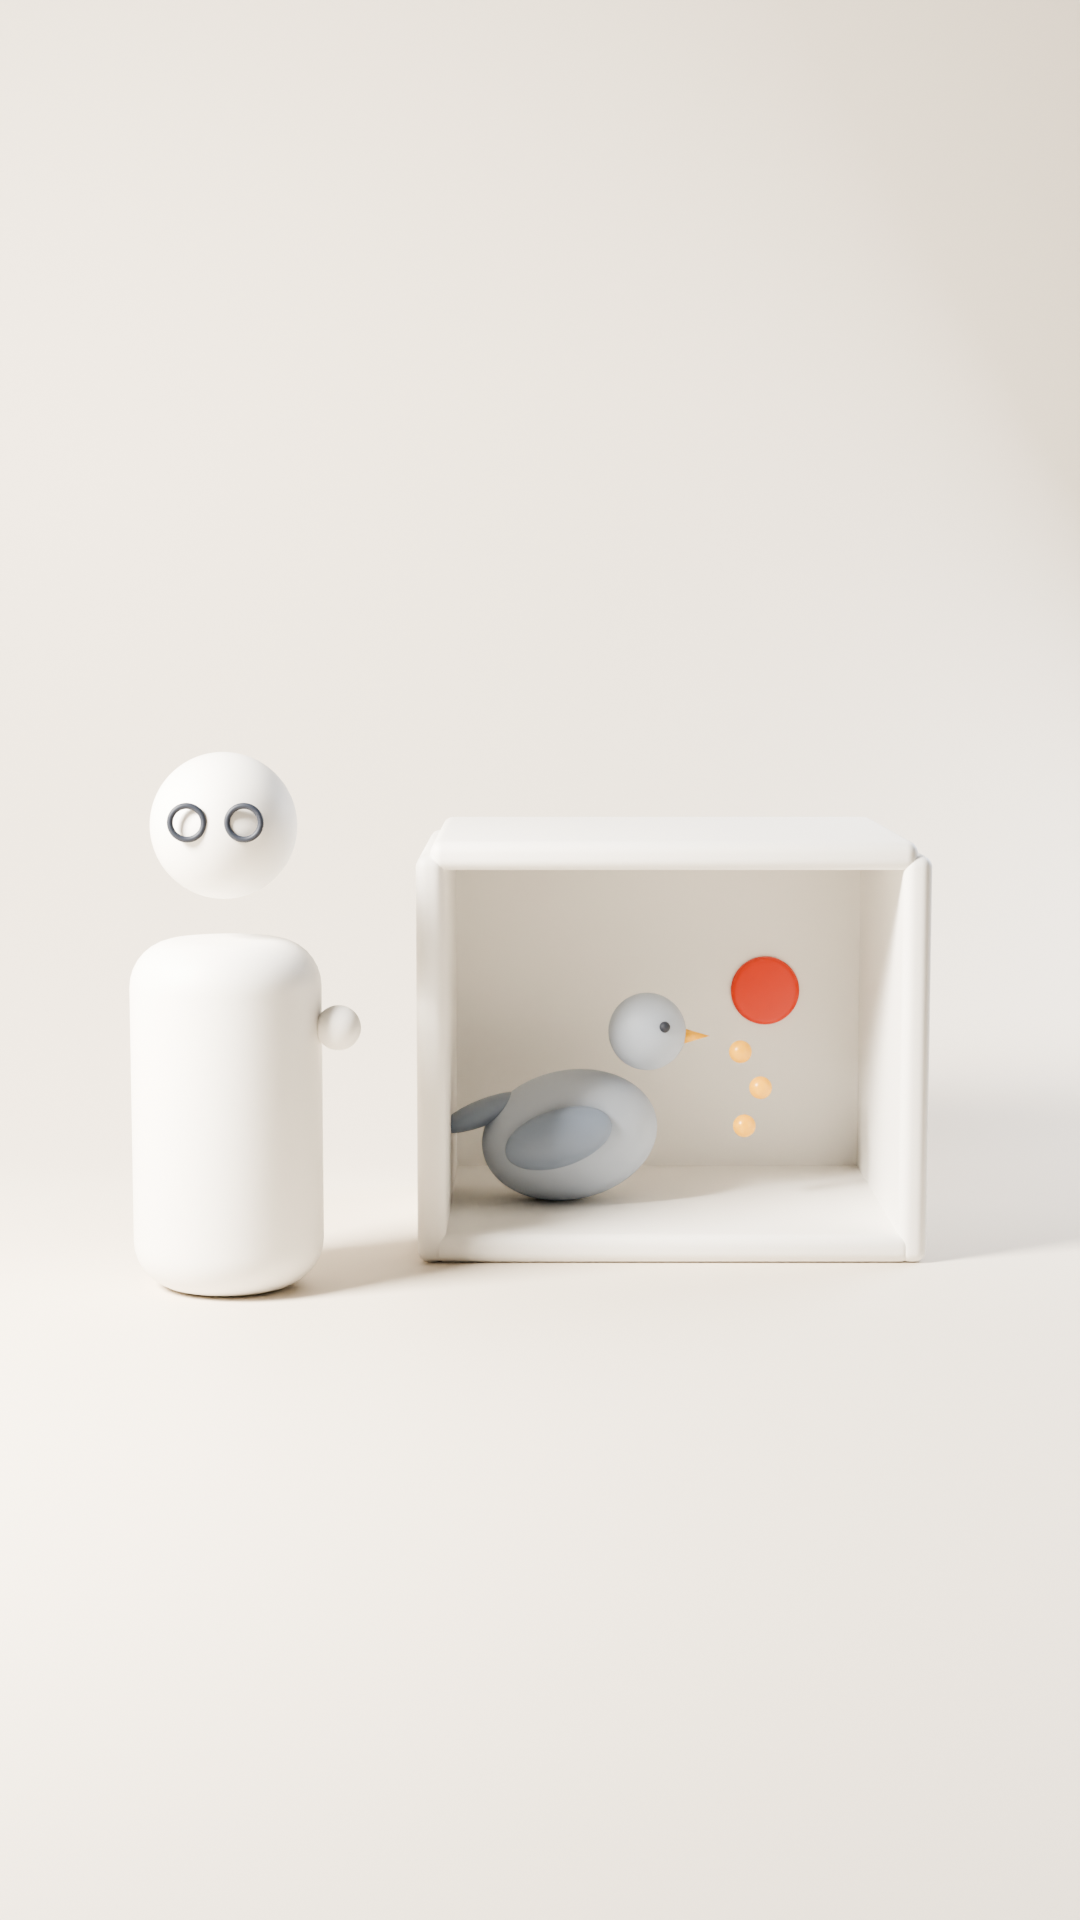
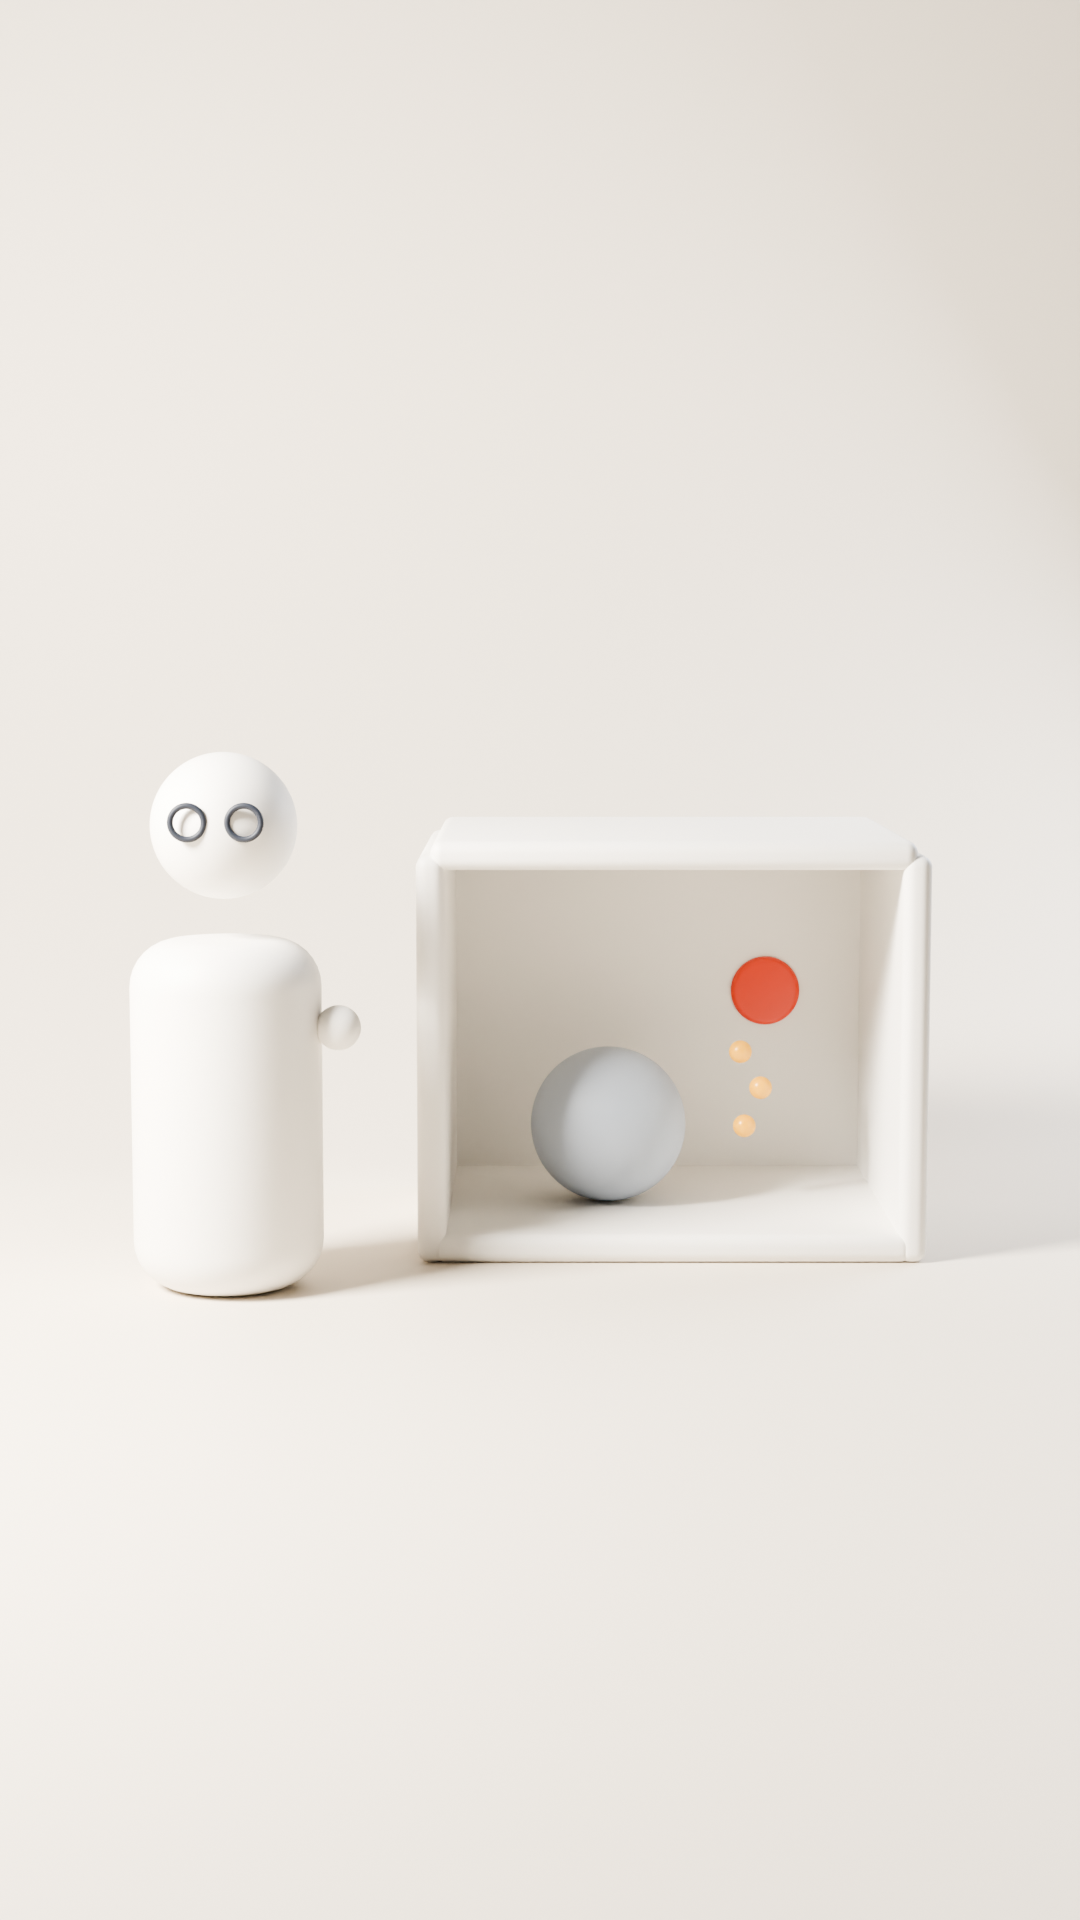
Video 01: pigeon as plain sphere

diff --git a/new-channel/engine/blender/frame.py b/new-channel/engine/blender/frame.py
@@ -49,16 +49,8 @@ for size,loc in [((w,d,t),(0,0,t/2)),((w,d,t),(0,0,h)),((t,d,h),(-w/2,0,h/2)),((
     o=cube(size,(loc[0]+bx,loc[1]+by,loc[2]),M['white'],0.05)
 cyl(0.16,0.06,(bx+0.5,by+d/2-0.06,0.95),M['red'],0.025).rotation_euler=(math.pi/2,0,0)
 bpy.context.object.location=(bx+0.5,by+d/2-0.06,0.95)
-# pigeon: side profile facing the button (+x): egg body, wing, tail, floating head
-M['wing']=mat('wing','#7E8A9C',0.5)
-px,py,pz=bx-0.42,by-0.05,0.41
-o=sphere(0.3,(px,py,pz),M['grey'],(1.3,0.9,0.95)); o.rotation_euler=(0,math.radians(-12),0)
-o=sphere(0.3,(px-0.05,py-0.25,pz+0.03),M['wing'],(0.8,0.2,0.42)); o.rotation_euler=(0,math.radians(-18),0)
-o=sphere(0.2,(px-0.38,py,pz+0.1),M['wing'],(1.0,0.55,0.28)); o.rotation_euler=(0,math.radians(-22),0)
-hx,hz=px+0.34,pz+0.46
-sphere(0.17,(hx,py,hz),M['grey'])
-bpy.ops.mesh.primitive_cone_add(radius1=0.045,depth=0.15,location=(hx+0.2,py,hz-0.02),vertices=48); o=obj_done(bpy.context.object,M['gold']); o.rotation_euler=(0,math.radians(90),0)
-sphere(0.024,(hx+0.07,py-0.15,hz+0.04),M['ink'])
+# pigeon: just a sphere
+sphere(0.34,(bx-0.25,by-0.05,0.12+0.34),M['grey'])
 # pellets
 for i,(x,z) in enumerate([(0.35,0.45),(0.42,0.62),(0.33,0.78)]): sphere(0.05,(bx+x,by-0.05,z),M['gold'])
 

diff --git a/new-channel/CLAUDE.md b/new-channel/CLAUDE.md
@@ -41,3 +41,4 @@ Anything the owner must see goes in chat, not only here. Read this file first in
 - Storyboard v2 ALSO rejected: 'too simple or too complex, looks bad'. Conclusion: hand-coded procedural 3D from me hits a quality ceiling. Need references / pro assets / different medium before more renders.
 - Storyboard v3: Blender Cycles via pip 'bpy' 5.0.1 (works, CPU, ~3-5 min/frame @64spp). engine/blender/frame.py. Warm off-white set #E4DACB, all-white objects, grey pigeon, red button, gold pellets, big soft area key, AgX. Product-photo minimal.
 - v3 approved as direction ('right direction'). Pigeon v2: side profile, egg body + darker wing #7E8A9C + tail + floating head, faces button.
+- Owner: pigeon = just a plain grey sphere. Don't add detail to it.
